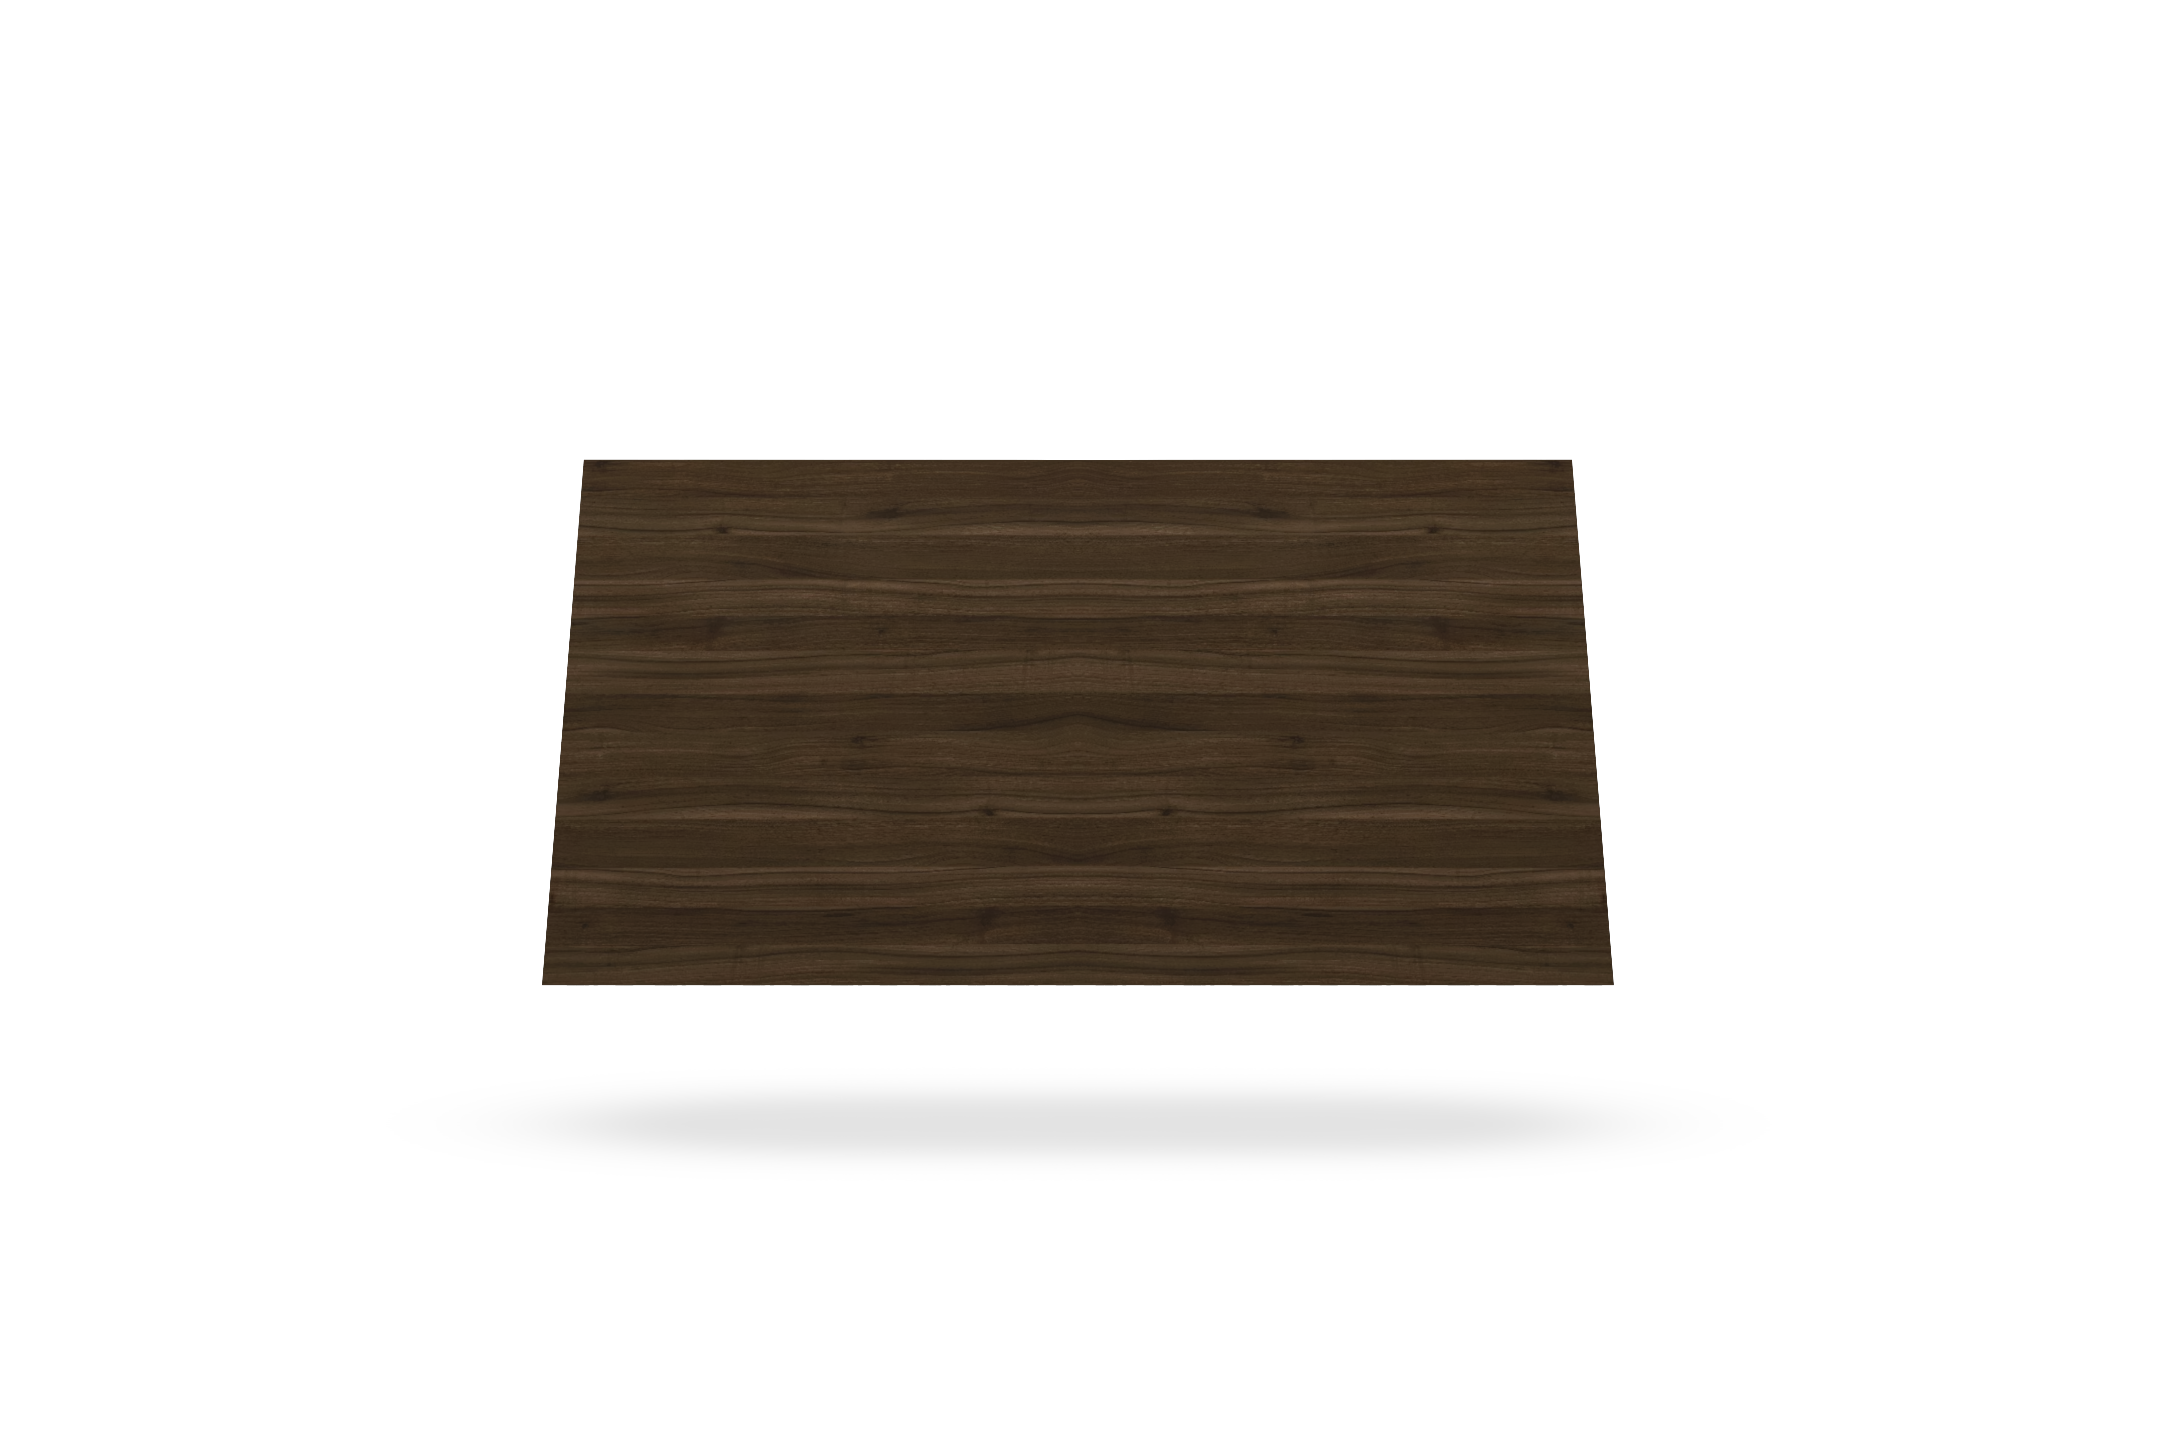
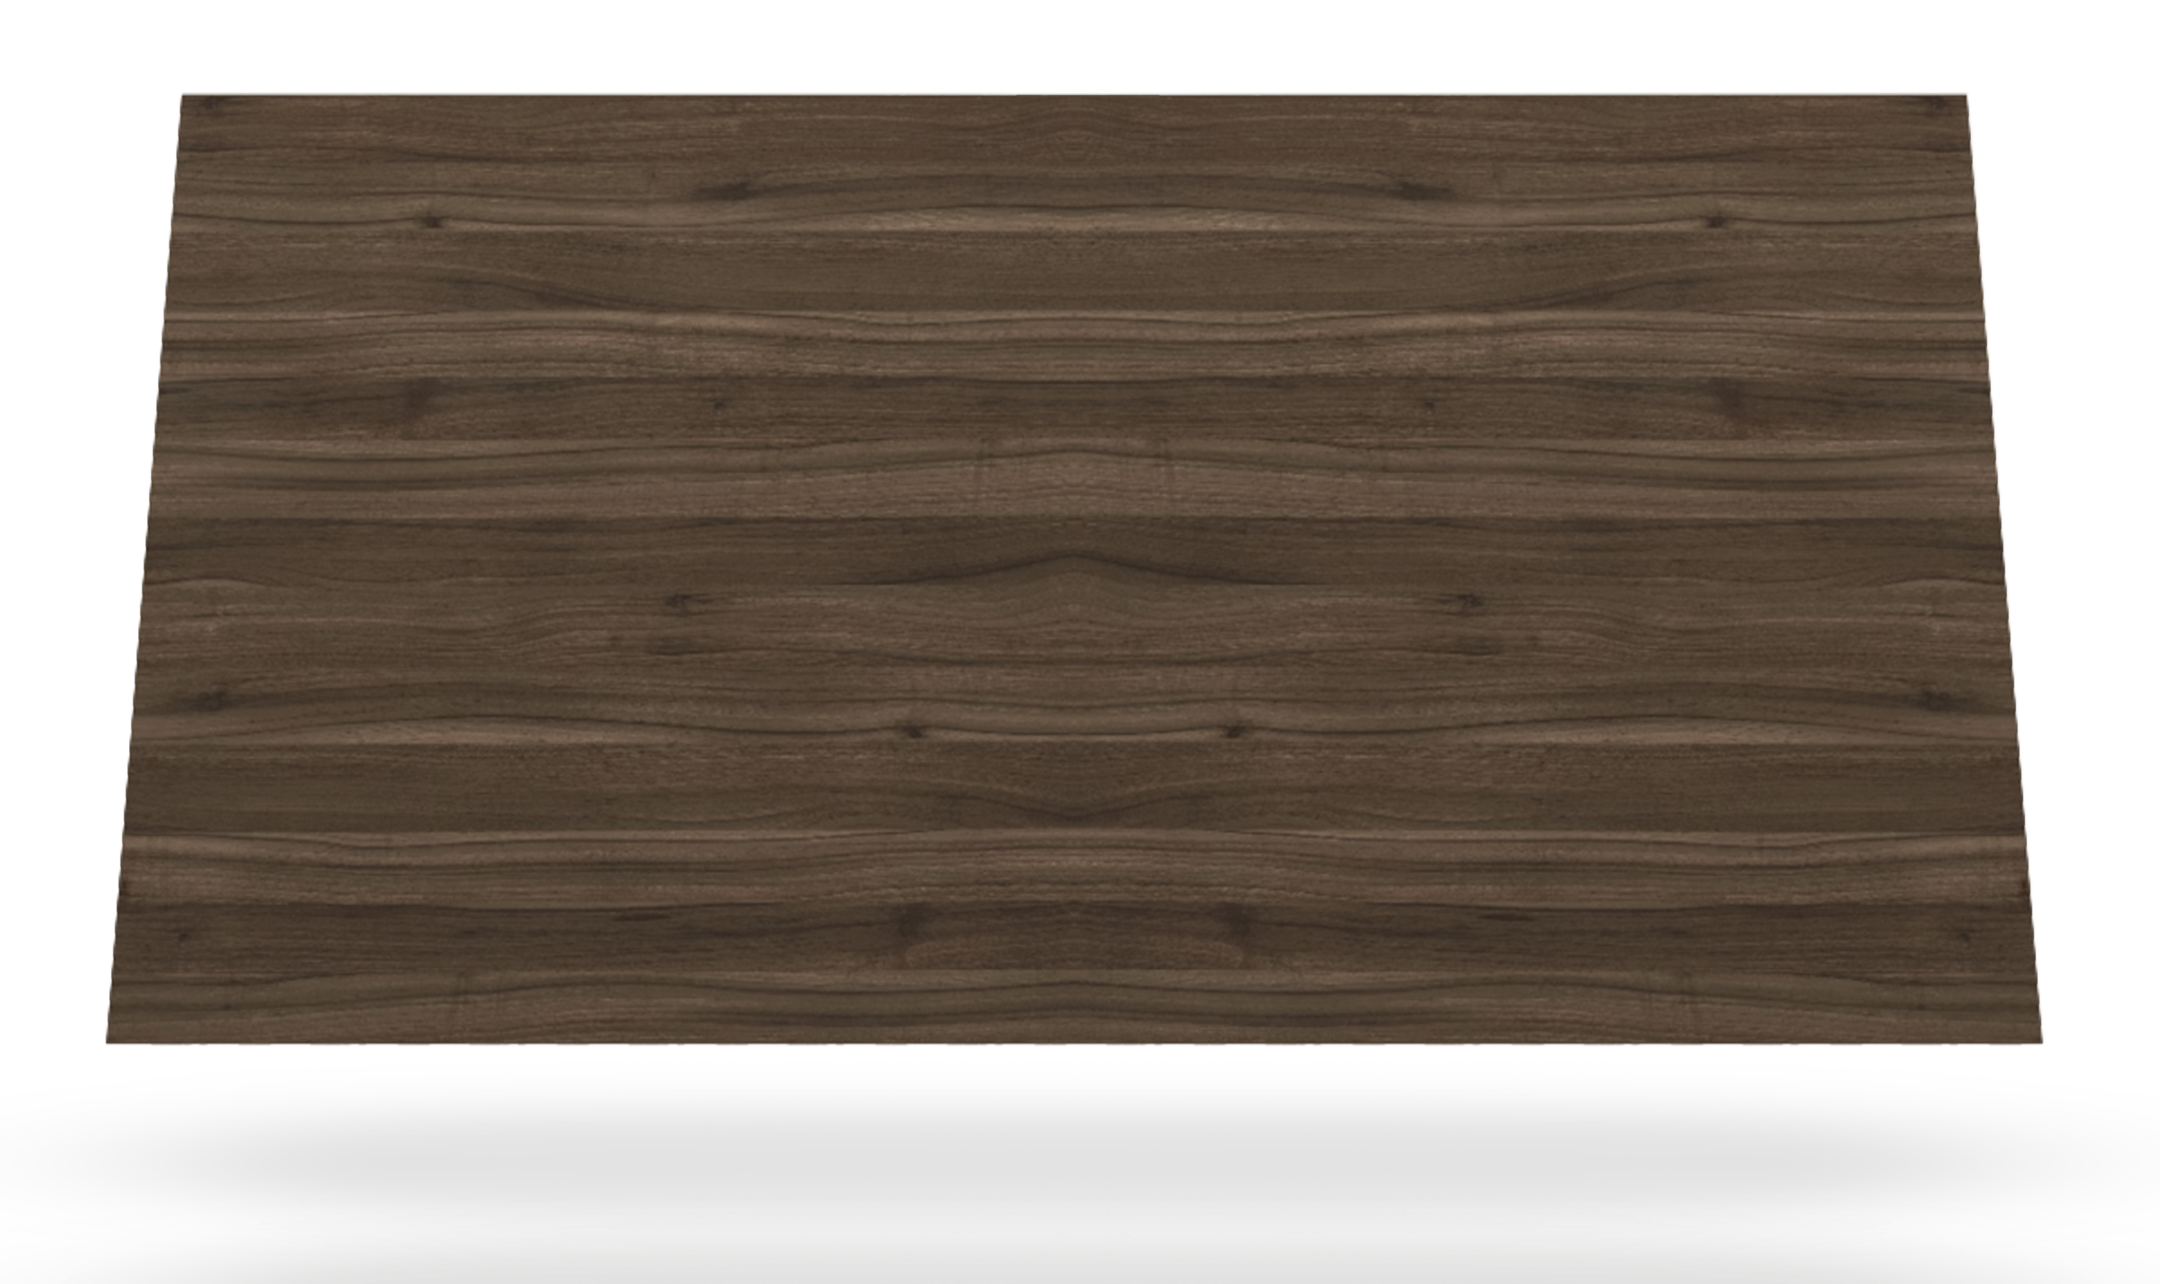
new image

diff --git a/application/views/library/hpl/lamitak_taglio_marcello_walnut.php b/application/views/library/hpl/lamitak_taglio_marcello_walnut.php
@@ -181,7 +181,7 @@ defined('BASEPATH') OR exit('No direct script access allowed');
                             </div>
 
                             <div class="post-prev-text">
-                                HPL Lamitak
+                                HPL Lamitak (TAP to ENLARGE)
                             </div>
 
                         </div>
